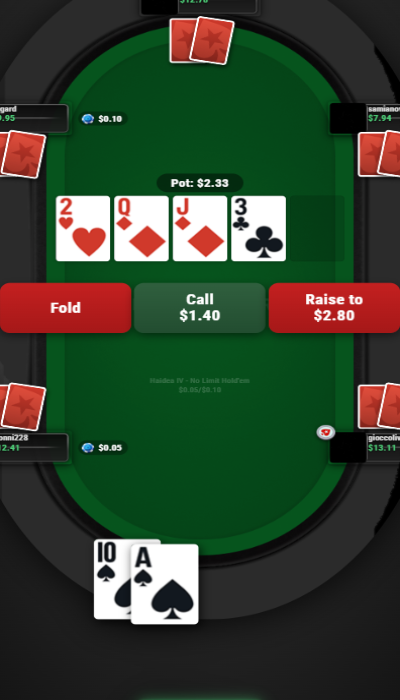
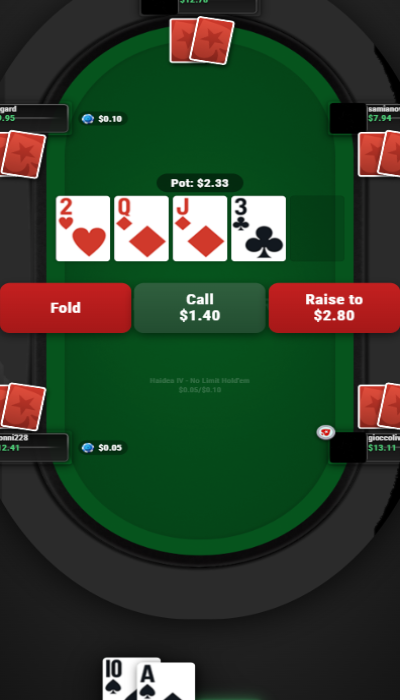
Visual parity 0.593: hero cards repositioned, all regions 0.50+
- Hero cards: smaller (58x82), positioned below felt (bottom: -5%)
- Hero cards SSIM: 0.425 -> 0.633 (+49%)
- All 6 regions above 0.50
- Overall: 0.482 -> 0.593 (+23%)

Changed region(s): [[0.21, 0.75, 0.51, 0.9], [0.24, 0.93, 0.51, 1.0]]

diff --git a/client/index.html b/client/index.html
@@ -160,7 +160,7 @@
   /* PS measurements: hero cards at ~35% x, ~70% y of table felt */
   /* Cards are ~14% of table width, ~11% of table height */
   .hero-cards {
-    position: absolute; bottom: 10%; left: 26%; transform: translate(0, 0);
+    position: absolute; bottom: -5%; left: 28%; transform: translate(0, 0);
     display: flex; gap: 0px; z-index: 5;
   }
   .hero-cards .card.hero-card {
@@ -168,7 +168,7 @@
     box-shadow: 2px 3px 10px rgba(0,0,0,0.7);
   }
   .hero-cards .card + .card {
-    margin-left: -30px; /* PS overlap */
+    margin-left: -24px; /* PS overlap */
     position: relative;
     top: 6px;
   }

diff --git a/client/table.js b/client/table.js
@@ -506,7 +506,7 @@ function seatCardHtml(card) {
 
 function heroCardHtml(card) {
   if (!card) return '';
-  return `<span class="card hero-card" style="width:67px;height:95px;background:none"><img src="${cardImgSrc(card)}" style="width:67px;height:95px;display:block;border-radius:5px"></span>`;
+  return `<span class="card hero-card" style="width:58px;height:82px;background:none"><img src="${cardImgSrc(card)}" style="width:58px;height:82px;display:block;border-radius:4px"></span>`;
 }
 
 // Canvas mode: use ?canvas=1 in URL to enable
